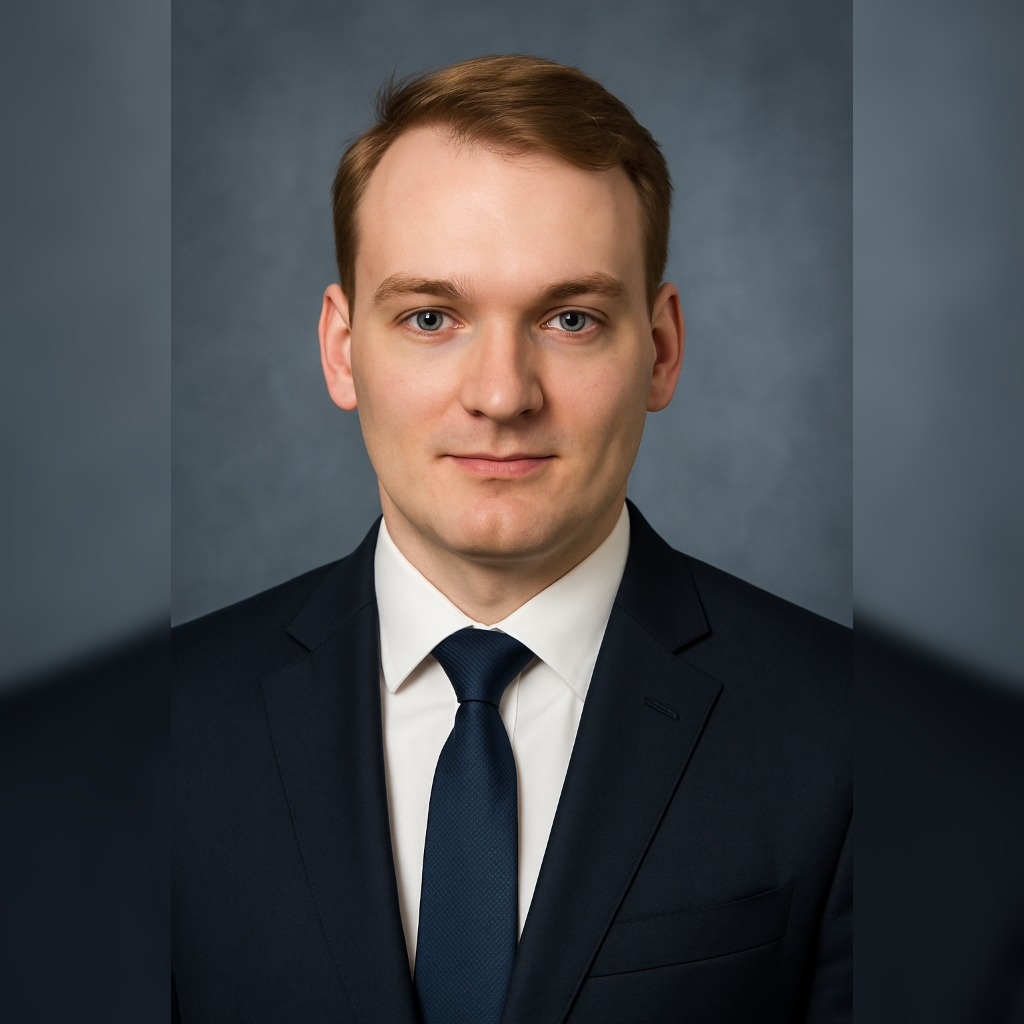
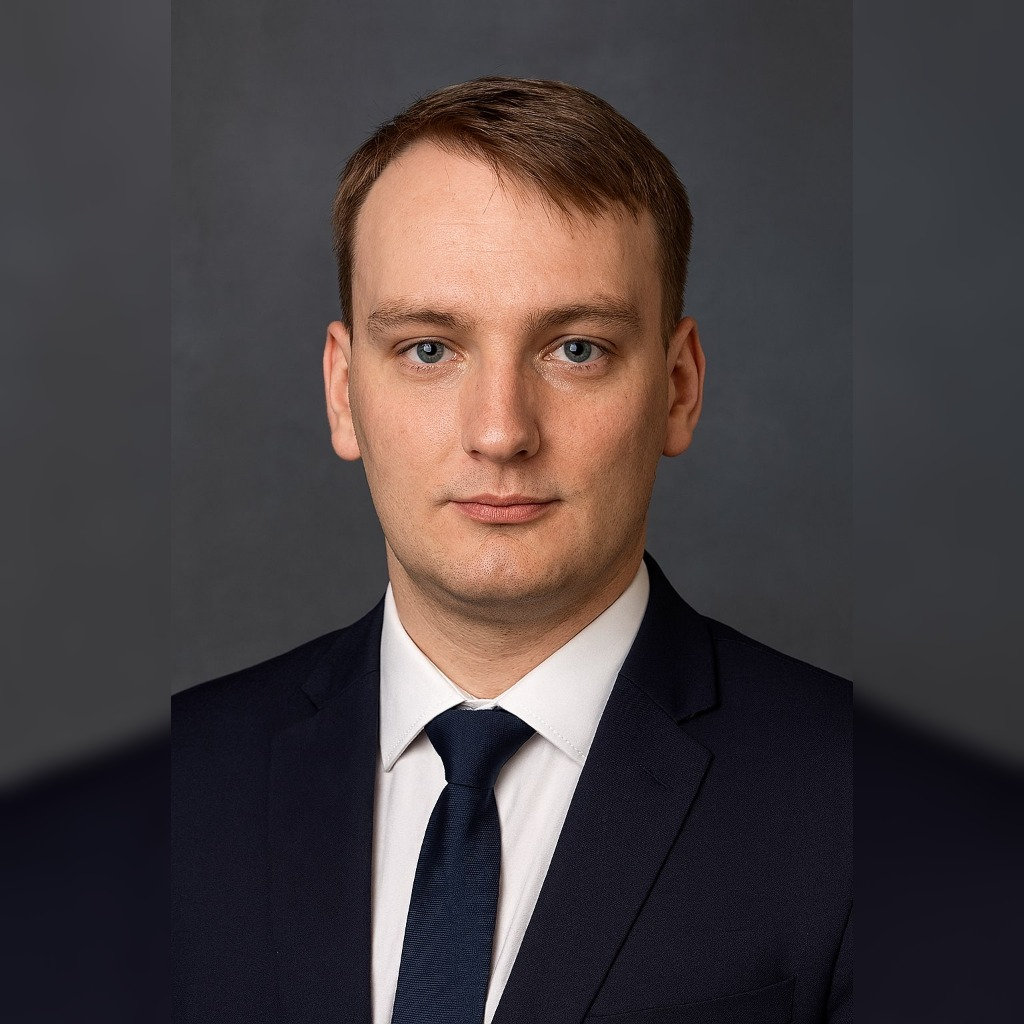
Updated Photos for Jake and Sasha (#23)
Updated the speaker portraits for both Jake Smith and Sasha Biskup

diff --git a/speakers.py b/speakers.py
@@ -12,7 +12,7 @@ speakers = [
         "jobtitle": "CISO",
         "company": "DroneShield",
         "linkedin": "https://www.linkedin.com/in/sashabiskup/",
-        "image": "sasha_biskup.png",
+        "image": "sasha_biskup.jpg",
         "description": "Sasha has been at the forefront of cybersecurity and engineering for over 25 years, working in Big Tech, the Internet of Things (IoT), Telecommunications, and Financial Services.<br><br>Prior to joining DroneShield, he held numerous leadership and engineering roles in England and the U.S. He has been pivotal in maturing cybersecurity at product startups and large-scale Internet companies throughout his career. His prolific work with global-scale IoT initiatives has given him the invaluable hands-on practical experience he needs to scale systems and processes effectively.<br><br>Sasha contributes significantly to DroneShield’s innovation and required engineering velocity. He is constantly raising the security bar to protect assets, products, and customers."
     },
     {
